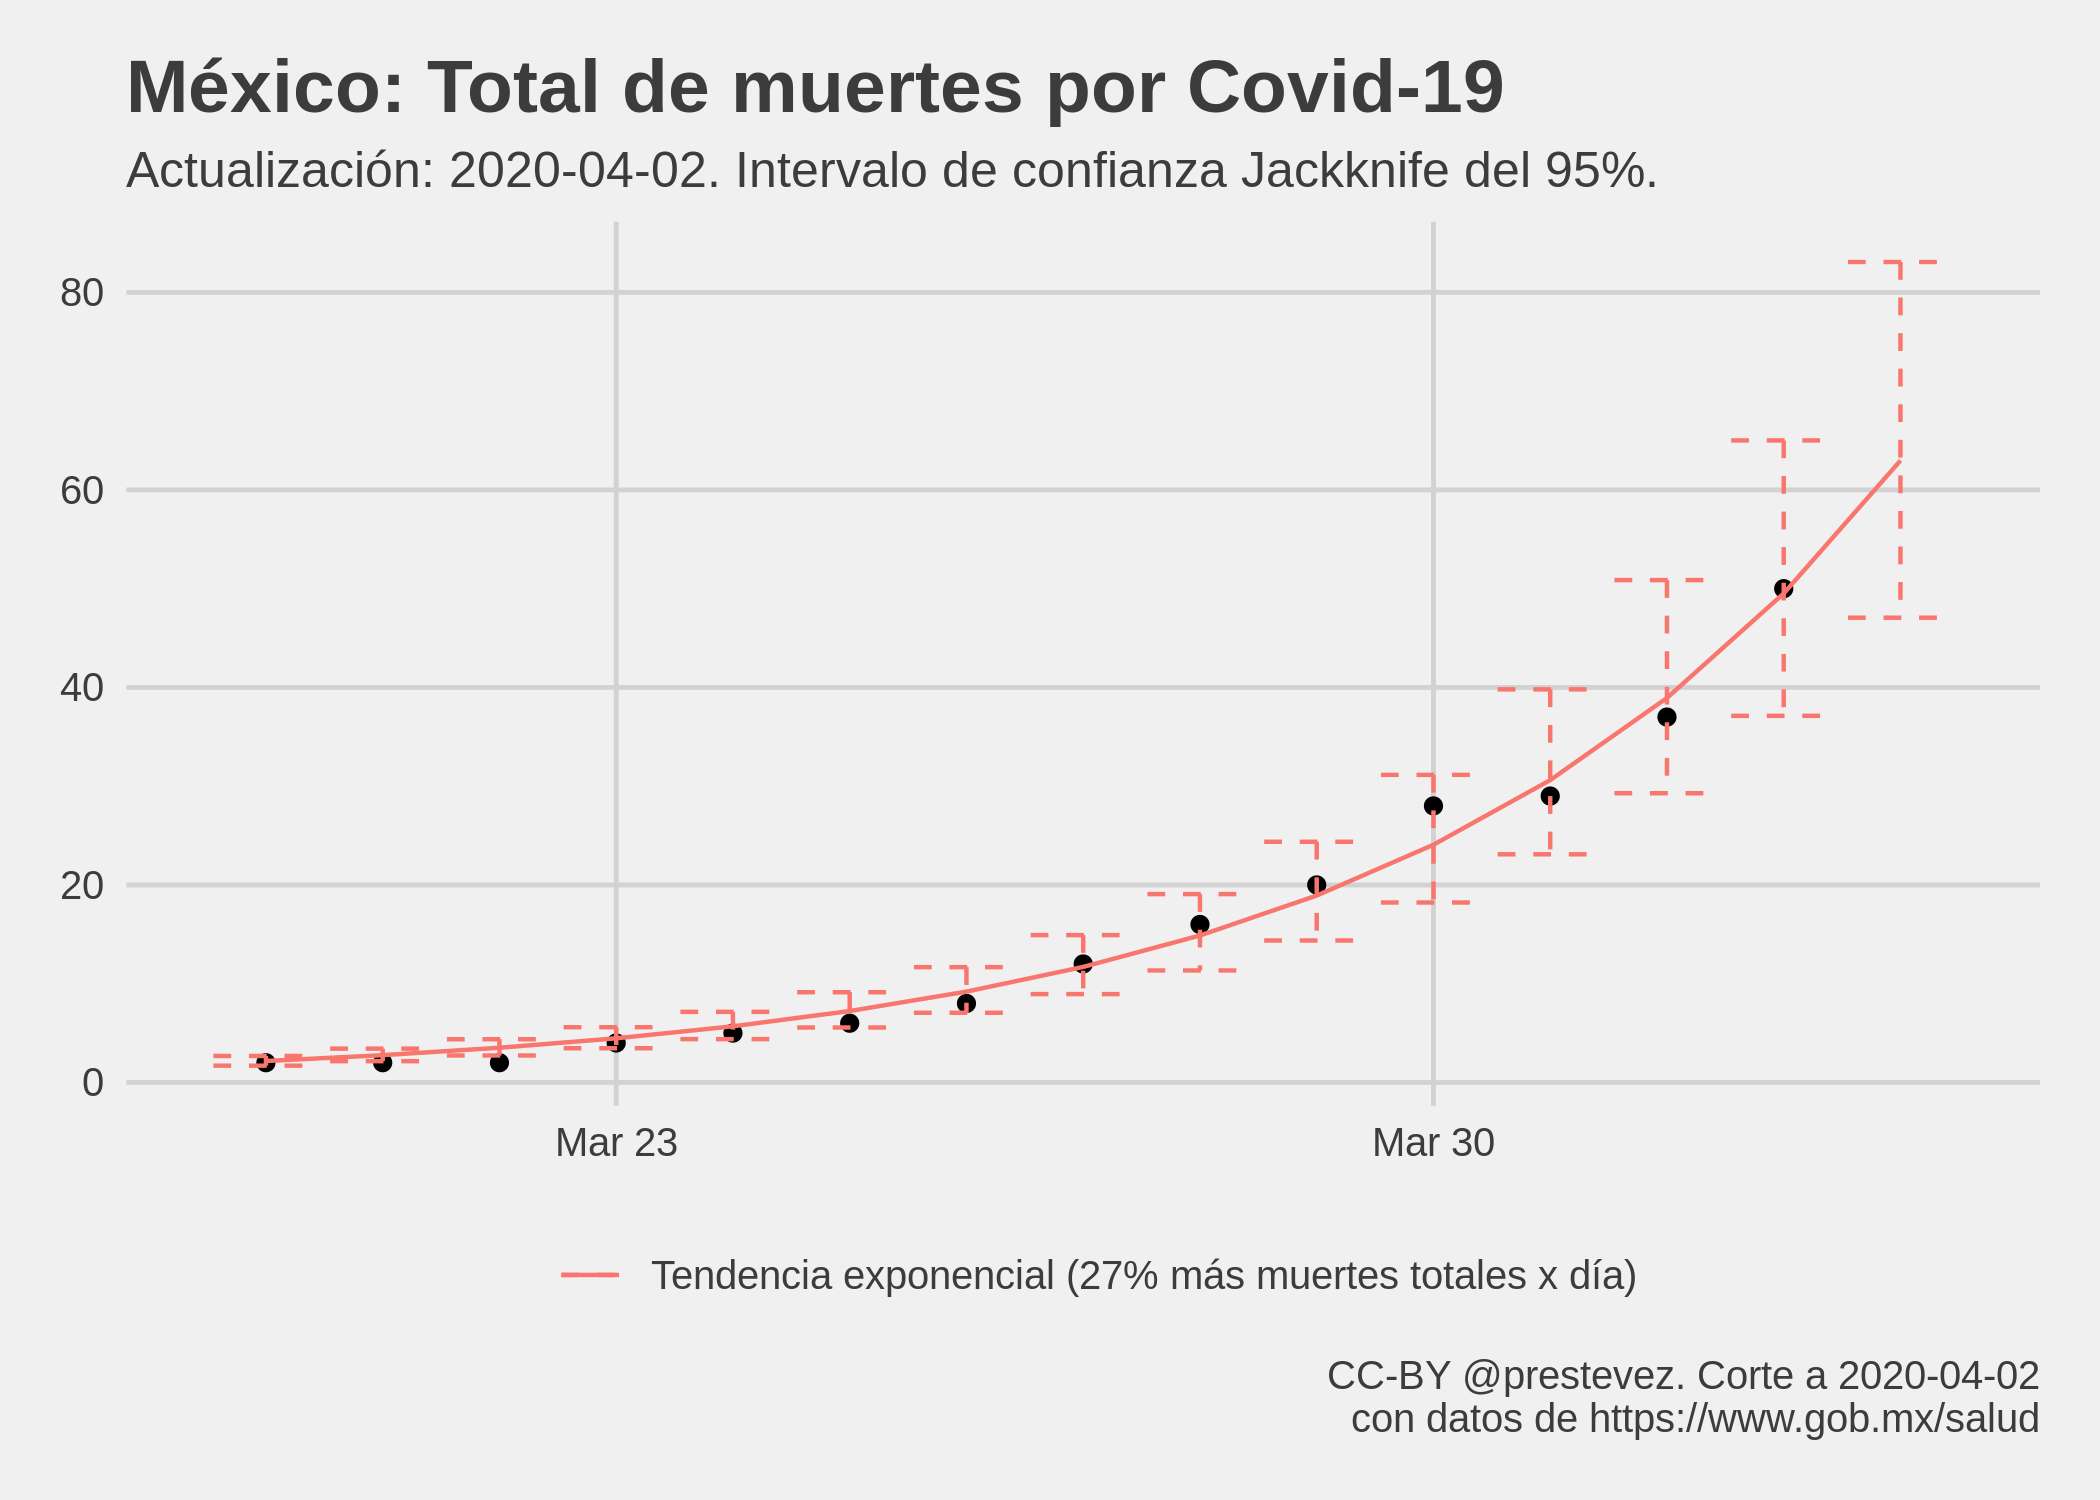
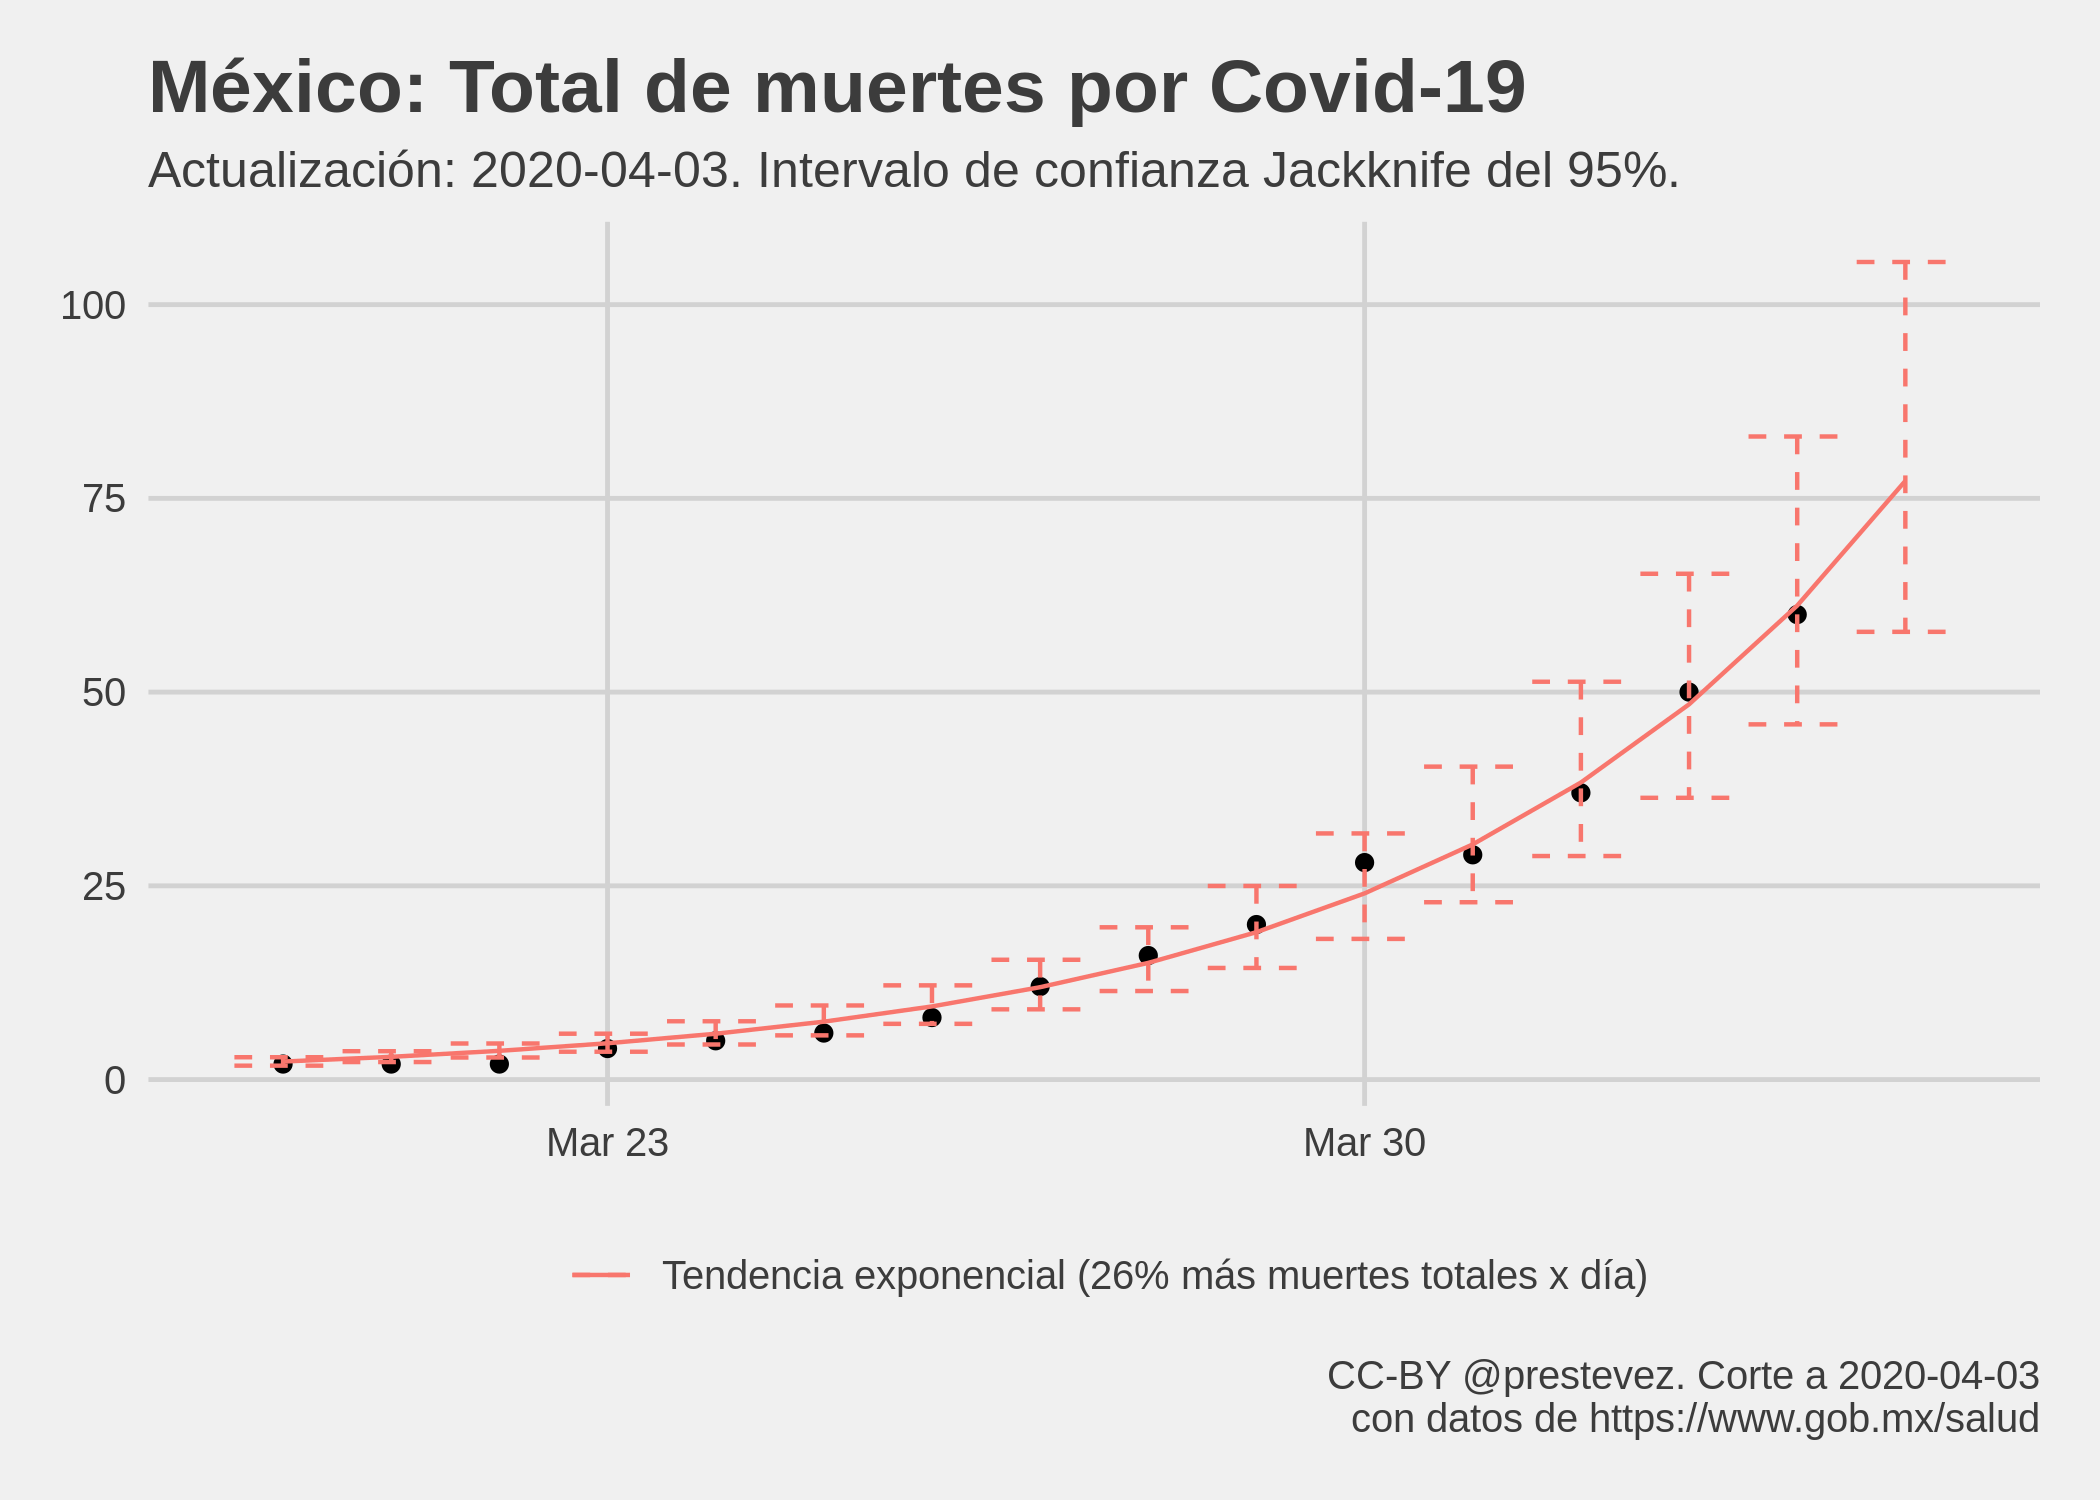
update 2020-04-03

diff --git a/README.md b/README.md
@@ -1,7 +1,7 @@
 Evolución de Covid-19 en México
 ================
 [Patricio R Estevez-Soto](https://twitter.com/prestevez).
-Actualizado: 2020-04-03 11:36:56 GMT
+Actualizado: 2020-04-04 11:12:10 GMT
 
 # Crecimiento de casos confirmados de Covid-19 en México
 
@@ -38,22 +38,22 @@ Parámetros del modelo predictivo:
     ## 
     ## Deviance Residuals: 
     ##      Min        1Q    Median        3Q       Max  
-    ## -115.213   -43.188   -18.737    -6.878   104.414  
+    ## -116.181   -51.399   -23.333    -6.899   117.364  
     ## 
     ## Coefficients:
     ##             Estimate Std. Error t value Pr(>|t|)    
-    ## (Intercept) 2.110469   0.140600   15.01 2.64e-16 ***
-    ## t           0.150941   0.004349   34.71  < 2e-16 ***
+    ## (Intercept)   2.2929     0.1394   16.45   <2e-16 ***
+    ## t             0.1446     0.0042   34.42   <2e-16 ***
     ## ---
     ## Signif. codes:  0 '***' 0.001 '**' 0.01 '*' 0.05 '.' 0.1 ' ' 1
     ## 
-    ## (Dispersion parameter for gaussian family taken to be 2081.536)
+    ## (Dispersion parameter for gaussian family taken to be 2706.522)
     ## 
-    ##     Null deviance: 6730820  on 34  degrees of freedom
-    ## Residual deviance:   68688  on 33  degrees of freedom
-    ## AIC: 370.7
+    ##     Null deviance: 8563432  on 35  degrees of freedom
+    ## Residual deviance:   92022  on 34  degrees of freedom
+    ## AIC: 390.63
     ## 
-    ## Number of Fisher Scoring iterations: 6
+    ## Number of Fisher Scoring iterations: 7
 
 # Estimación de errores Jackknife
 
@@ -88,8 +88,8 @@ Parámetros Jackknife del modelo predictivo de casos:
     ## # A tibble: 2 x 4
     ##   var         Estimate ci_low ci_high
     ##   <chr>          <dbl>  <dbl>   <dbl>
-    ## 1 (Intercept)    2.11   2.04    2.14 
-    ## 2 t              0.151  0.150   0.153
+    ## 1 (Intercept)    2.29   2.22    2.32 
+    ## 2 t              0.145  0.144   0.147
 
 # Modelo de casos nuevos
 
@@ -121,29 +121,29 @@ Parámetros del modelo predictivo de casos nuevos:
     ## glm(formula = casos_nuevos ~ t, family = poisson("log"), data = casos_ext)
     ## 
     ## Deviance Residuals: 
-    ##     Min       1Q   Median       3Q      Max  
-    ## -5.2278  -2.4674  -0.9025   1.1130   4.6103  
+    ##    Min      1Q  Median      3Q     Max  
+    ## -4.470  -2.434  -1.025   1.008   4.899  
     ## 
     ## Coefficients:
     ##             Estimate Std. Error z value Pr(>|z|)    
-    ## (Intercept) 0.330021   0.118418   2.787  0.00532 ** 
-    ## t           0.142165   0.004028  35.296  < 2e-16 ***
+    ## (Intercept) 0.439851   0.111376   3.949 7.84e-05 ***
+    ## t           0.137380   0.003688  37.248  < 2e-16 ***
     ## ---
     ## Signif. codes:  0 '***' 0.001 '**' 0.01 '*' 0.05 '.' 0.1 ' ' 1
     ## 
     ## (Dispersion parameter for poisson family taken to be 1)
     ## 
-    ##     Null deviance: 2172.45  on 34  degrees of freedom
-    ## Residual deviance:  223.79  on 33  degrees of freedom
-    ## AIC: 366.77
+    ##     Null deviance: 2395.90  on 35  degrees of freedom
+    ## Residual deviance:  234.23  on 34  degrees of freedom
+    ## AIC: 384.23
     ## 
     ## Number of Fisher Scoring iterations: 5
 
     ## # A tibble: 2 x 4
     ##   var         Estimate ci_low ci_high
     ##   <chr>          <dbl>  <dbl>   <dbl>
-    ## 1 (Intercept)    0.328  0.226   0.391
-    ## 2 t              0.142  0.140   0.146
+    ## 1 (Intercept)    0.438  0.329   0.498
+    ## 2 t              0.137  0.136   0.142
 
 # Modelo de acumulado de muertes y de muertes nuevas
 
@@ -158,25 +158,6 @@ estimar el ritmo de crecimiento. Se hacen extrapolaciones a un día para
 darse una idea de cuántas muertes totales y nuevas podrían verse mañana
 si las tendencias a la fecha se mantienen.
 
-    ## # A tibble: 15 x 10
-    ##    date       muertes     t predicted casos casos_nuevos muertes_nuevas Jackknife Jackknife_low Jackknife_high
-    ##    <date>       <dbl> <dbl>     <dbl> <dbl>        <dbl>          <dbl>     <dbl>         <dbl>          <dbl>
-    ##  1 2020-03-20       2    22      2.17   203           39              2      2.18          1.70           2.68
-    ##  2 2020-03-21       2    23      2.77   251           48              0      2.77          2.16           3.43
-    ##  3 2020-03-22       2    24      3.52   316           65              0      3.52          2.73           4.38
-    ##  4 2020-03-23       4    25      4.47   367           51              2      4.47          3.46           5.59
-    ##  5 2020-03-24       5    26      5.69   405           38              1      5.69          4.39           7.15
-    ##  6 2020-03-25       6    27      7.24   476           71              1      7.24          5.57           9.14
-    ##  7 2020-03-26       8    28      9.20   585          109              2      9.20          7.06          11.7 
-    ##  8 2020-03-27      12    29     11.7    717          132              4     11.7           8.95          14.9 
-    ##  9 2020-03-28      16    30     14.9    848          131              4     14.9          11.3           19.1 
-    ## 10 2020-03-29      20    31     18.9    993          145              4     18.9          14.4           24.4 
-    ## 11 2020-03-30      28    32     24.1   1094          101              8     24.1          18.2           31.1 
-    ## 12 2020-03-31      29    33     30.6   1215          121              1     30.6          23.1           39.8 
-    ## 13 2020-04-01      37    34     38.9   1378          163              8     38.9          29.3           50.9 
-    ## 14 2020-04-02      50    35     49.5   1510          132             13     49.5          37.1           65.0 
-    ## 15 2020-04-03      NA    36     63.0     NA           NA             NA     63.0          47.1           83.1
-
 ![](muertes.png)
 
 ![](muertes_jk.png)
@@ -186,23 +167,23 @@ si las tendencias a la fecha se mantienen.
 # Casos esperados mañana
 
 Mañana se espera que el **total acumulado de casos confirmados** de
-Covid-19 alcance **1890**, con un intervalo de confianza Jackknife del
-95% entre **1707** y **2103**, si la tendencia observada hasta hoy se
+Covid-19 alcance **2085**, con un intervalo de confianza Jackknife del
+95% entre **1892** y **2300**, si la tendencia observada hasta hoy se
 mantiene igual.
 
-Según el modelo de casos nuevos, mañana se esperan **232 casos
+Según el modelo de casos nuevos, mañana se esperan **250 casos
 confirmados nuevos**, con un intervalo de confianza Jackknife del 95%
-entre **195** y **281**, si la tendencia observada hasta hoy se mantiene
+entre **209** y **318**, si la tendencia observada hasta hoy se mantiene
 igual.
 
 Según el modelo de muertes acumuladas, mañana se espera que el total
-alcance alrededor de **63 muertes**, con un intervalo de confianza
-Jackknife del 95% entre **47** y **83**, si la tendencia observada hasta
-hoy se mantiene igual.
+alcance alrededor de **77 muertes**, con un intervalo de confianza
+Jackknife del 95% entre **58** y **105**, si la tendencia observada
+hasta hoy se mantiene igual.
 
-Según el modelo de muertes nuevas, mañana se esperam alrededor de **13
+Según el modelo de muertes nuevas, mañana se esperan alrededor de **14
 muertes nuevas**, con un intervalo de confianza Jackknife del 95% entre
-**2** y **68**, si la tendencia observada hasta hoy se mantiene igual.
+**4** y **46**, si la tendencia observada hasta hoy se mantiene igual.
 
 Sin embargo, estas cifra muy probablemente estén equivocadas, pues los
 modelos usados son extremadamente simples. El objetivo es tener una vaga
@@ -238,6 +219,7 @@ Para el modelo del acumulado de casos:
 | 2020-03-31 |                     1215 |    1380.92 | \-165.92 |
 | 2020-04-01 |                     1378 |    1537.02 | \-159.02 |
 | 2020-04-02 |                     1510 |    1716.08 | \-206.08 |
+| 2020-04-03 |                     1688 |    1890.01 | \-202.01 |
 
 Intervalos de confianza JK
 
@@ -253,6 +235,7 @@ Intervalos de confianza JK
 | 2020-03-31 |           1215           |   1230-1571    |       Sí       |
 | 2020-04-01 |           1378           |   1383-1724    |       Sí       |
 | 2020-04-02 |           1510           |   1558-1903    |       Sí       |
+| 2020-04-03 |           1688           |   1707-2103    |       Sí       |
 
 Para el modelo de casos nuevos:
 
@@ -270,6 +253,7 @@ Para el modelo de casos nuevos:
 | 2020-03-31 |                     121 |     200.59 | \-79.59 |
 | 2020-04-01 |                     163 |     207.60 | \-44.60 |
 | 2020-04-02 |                     132 |     227.10 | \-95.10 |
+| 2020-04-03 |                     178 |     232.28 | \-54.28 |
 
 Intervalos de confianza JK, casos nuevos.
 
@@ -285,6 +269,7 @@ Intervalos de confianza JK, casos nuevos.
 | 2020-03-31 |           121           |    157-265     |       Sí       |
 | 2020-04-01 |           163           |    164-290     |       Sí       |
 | 2020-04-02 |           132           |    188-291     |       Sí       |
+| 2020-04-03 |           178           |    195-281     |       Sí       |
 
 Para las muertes por covid-19:
 
@@ -292,6 +277,7 @@ Para las muertes por covid-19:
 | :--------- | -------------------------: | ---------: | -----: |
 | 2020-04-01 |                         37 |      40.87 | \-3.87 |
 | 2020-04-02 |                         50 |      48.76 |   1.24 |
+| 2020-04-03 |                         60 |      62.98 | \-2.98 |
 
 Predcciones: acumulado de muertes por covid-19.
 
@@ -299,15 +285,17 @@ Predcciones: acumulado de muertes por covid-19.
 | :--------: | :------------------------: | :------------: | :------------: |
 | 2020-04-01 |             37             |     13-138     |       No       |
 | 2020-04-02 |             50             |     31-80      |       No       |
+| 2020-04-03 |             60             |     47-83      |       No       |
 
 Intervalos de confianza JK, acumulado de muertes.
 
 Para las muertes nuevas por covid-19:
 
-| Fecha      | Muertes Nuevas Observadas | Predicción | Error |
-| :--------- | ------------------------: | ---------: | ----: |
-| 2020-04-01 |                         8 |       6.13 |  1.87 |
-| 2020-04-02 |                        13 |       8.30 |  4.70 |
+| Fecha      | Muertes Nuevas Observadas | Predicción |  Error |
+| :--------- | ------------------------: | ---------: | -----: |
+| 2020-04-01 |                         8 |       6.13 |   1.87 |
+| 2020-04-02 |                        13 |       8.30 |   4.70 |
+| 2020-04-03 |                        10 |      12.74 | \-2.74 |
 
 Predcciones: Muertes nuuevas por covid-19.
 
@@ -315,13 +303,14 @@ Predcciones: Muertes nuuevas por covid-19.
 | :--------: | :-----------------------: | :------------: | :------------: |
 | 2020-04-01 |             8             |     0-229      |       No       |
 | 2020-04-02 |            13             |      1-55      |       No       |
+| 2020-04-03 |            10             |      2-68      |       No       |
 
 Intervalos de confianza JK, muertes nuevas.
 
 # Discusión
 
 La tendencia exponencial del modelo sugiere que **el número de casos
-confirmados se duplica cada 4.59 días**. Este ritmo es más rápido que
+confirmados se duplica cada 4.79 días**. Este ritmo es más rápido que
 [el observado a nivel
 global](https://ourworldindata.org/coronavirus#growth-of-cases-how-long-did-it-take-for-the-number-of-confirmed-cases-to-double),
 pero es consistente con los ritmos de crecimiento observados durante las
